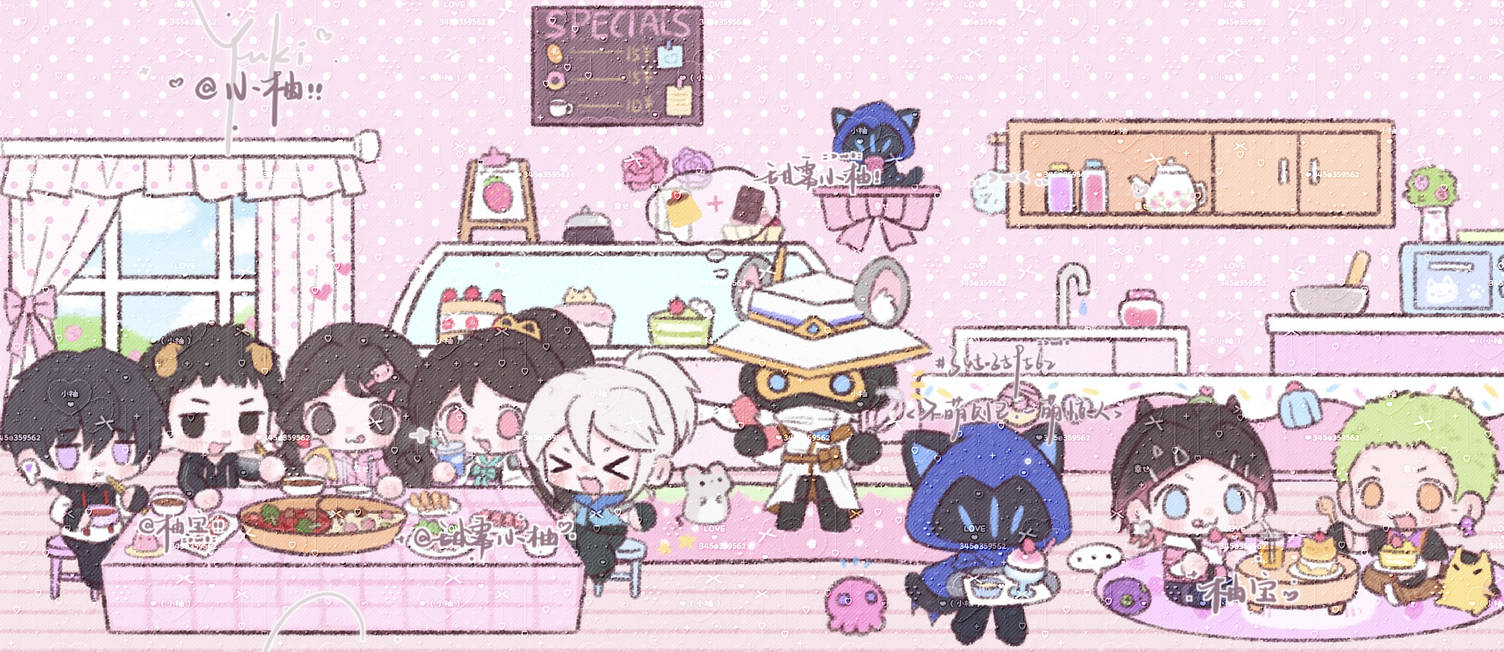
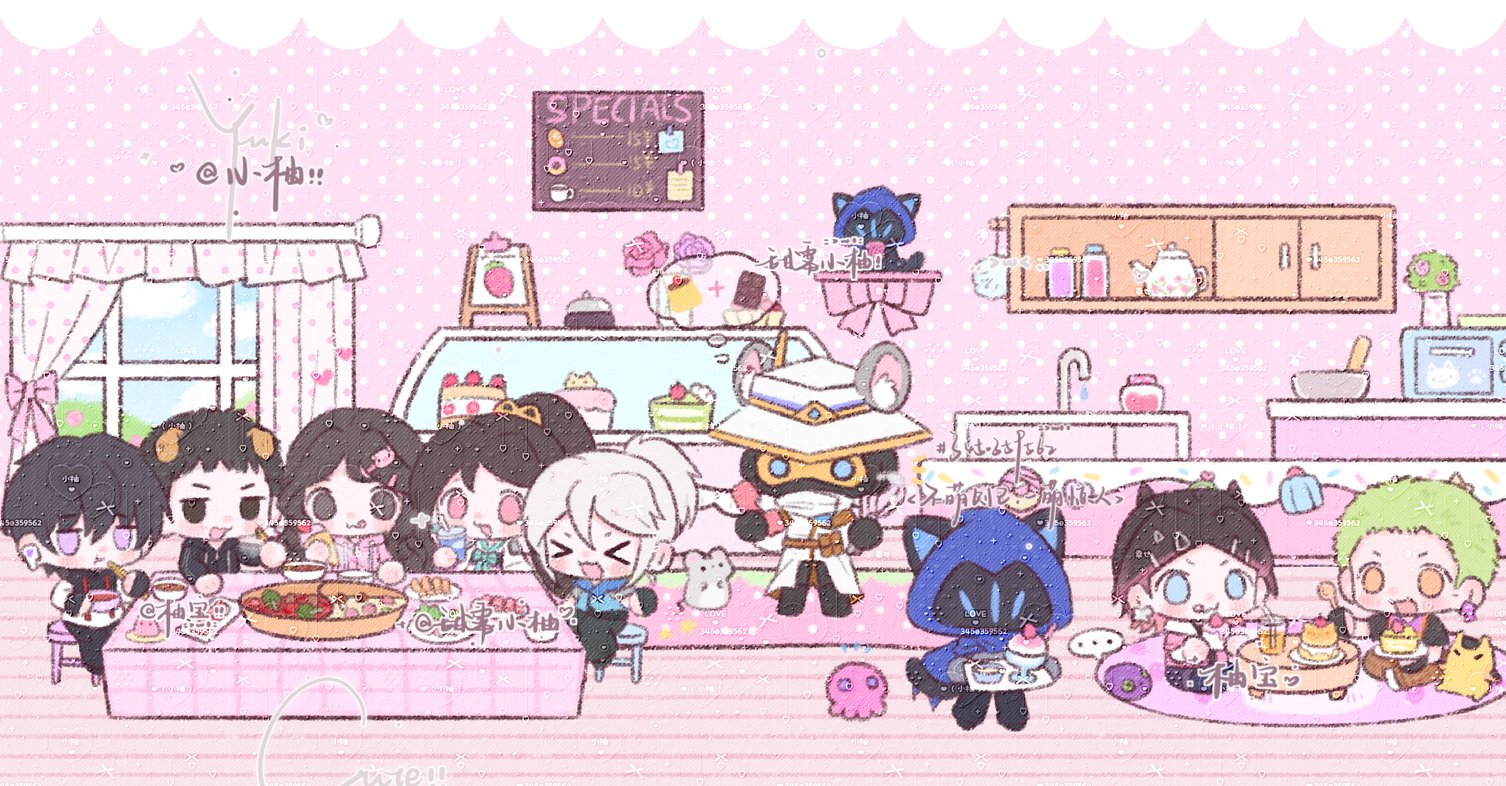
chore(cover): 主页朋友圈封面换成她 00:07 给的新图（2870x1499），版戳 20261118b

diff --git a/index.html b/index.html
@@ -108,7 +108,7 @@
 <div class="page active" id="page-home">
 
   <header class="hero">
-      <img class="hero-img" src="/cover.jpg?v=20261118" alt="">
+      <img class="hero-img" src="/cover.jpg?v=20261118b" alt="">
     <div class="hero-inner">
       <div class="avatar-row">
         <div class="avatar"><img src="/avatar.jpg" alt="头像" style="width:100%;height:100%;object-fit:cover;border-radius:50%;"></div>

diff --git a/zh/index.html b/zh/index.html
@@ -78,7 +78,7 @@
 <div class="page active" id="page-home">
 
   <header class="hero">
-      <img class="hero-img" src="/cover.jpg?v=20261118" alt="">
+      <img class="hero-img" src="/cover.jpg?v=20261118b" alt="">
     <div class="hero-inner">
       <div class="avatar-row">
         <div class="avatar"><img src="/avatar.jpg" alt="头像" style="width:100%;height:100%;object-fit:cover;border-radius:50%;"></div>
